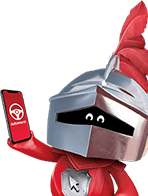
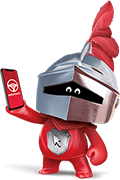
Update animation

diff --git a/2018/2018-08/2018-08-27/source/contobox/300x250.css b/2018/2018-08/2018-08-27/source/contobox/300x250.css
@@ -914,17 +914,17 @@
 }
 .robot-without-eyes {
   background: url('./images/300x250_robot_without_eyes.png');
-  width: 148px;
-  height: 196px;
-  bottom: 0px;
-  right: 0px;
+  width: 120px;
+  height: 180px;
+  bottom: 16px;
+  right: 16px;
 }
 .robot {
   background: url('./images/300x250_robot.png');
-  width: 148px;
-  height: 196px;
-  bottom: 0px;
-  right: 0px;
+  width: 120px;
+  height: 180px;
+  bottom: 16px;
+  right: 16px;
   -webkit-animation: slideInLeft 0.75s ease-in-out 1s forwards;
   -moz-animation: slideInLeft 0.75s ease-in-out 1s forwards;
   animation: slideInLeft 0.75s ease-in-out 1s forwards;

diff --git a/2018/2018-08/2018-08-27/source/contobox/160x600.css b/2018/2018-08/2018-08-27/source/contobox/160x600.css
@@ -914,17 +914,17 @@
 }
 .robot-without-eyes {
   background: url('./images/160x600_robot_without_eyes.png');
-  width: 210px;
-  height: 316px;
-  top: 168px;
-  left: -7px;
+  width: 154px;
+  height: 234px;
+  top: 224px;
+  right: 0px;
 }
 .robot {
   background: url('./images/160x600_robot.png');
-  width: 210px;
-  height: 316px;
-  top: 168px;
-  left: -7px;
+  width: 154px;
+  height: 234px;
+  top: 224px;
+  right: 0px;
   -webkit-animation: slideInLeft 0.75s ease-in-out 1s forwards;
   -moz-animation: slideInLeft 0.75s ease-in-out 1s forwards;
   animation: slideInLeft 0.75s ease-in-out 1s forwards;

diff --git a/2018/2018-08/2018-08-27/source/contobox/728x90.css b/2018/2018-08/2018-08-27/source/contobox/728x90.css
@@ -988,17 +988,17 @@
 }
 .robot-without-eyes {
   background: url('./images/728x90_robot_without_eyes.png');
-  width: 179px;
+  width: 120px;
   height: 90px;
   top: 0px;
-  left: 382px;
+  left: 391px;
 }
 .robot {
   background: url('./images/728x90_robot.png');
-  width: 179px;
+  width: 120px;
   height: 90px;
   top: 0px;
-  left: 382px;
+  left: 391px;
   -webkit-animation: robotSlideInLeft 0.75s ease-in-out 1s forwards;
   -moz-animation: robotSlideInLeft 0.75s ease-in-out 1s forwards;
   animation: robotSlideInLeft 0.75s ease-in-out 1s forwards;
